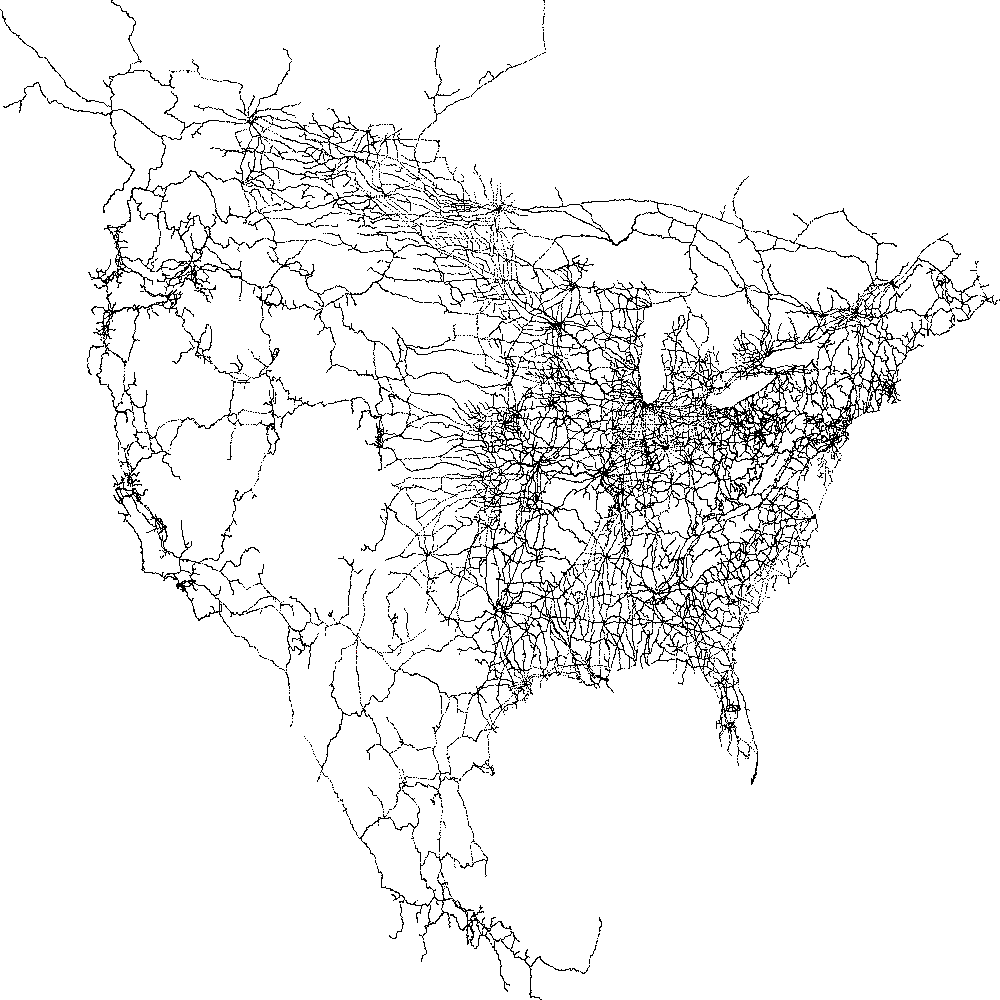
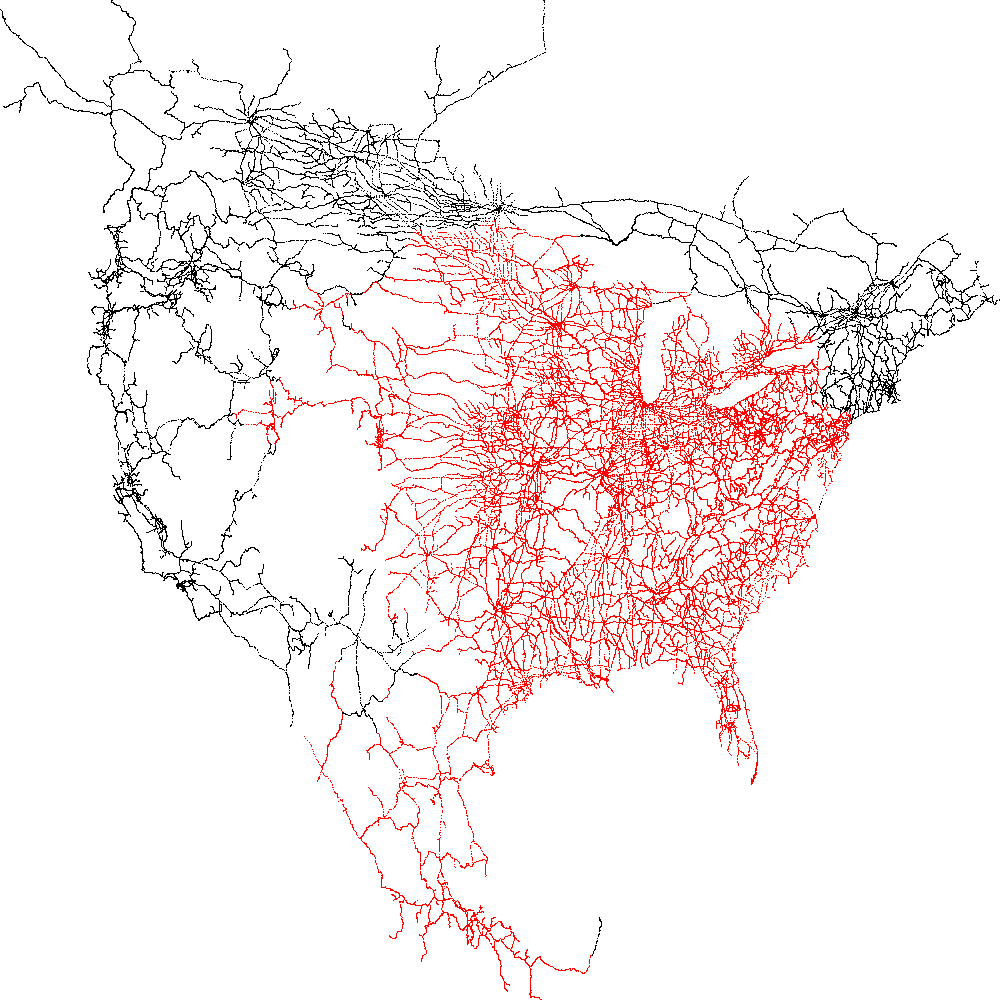
update visualization test cases

diff --git a/tests/test_visualization.cpp b/tests/test_visualization.cpp
@@ -67,7 +67,10 @@ TEST_CASE("Path Visualization", "[path]") {
     GraphReader gr(graph, "dataset/NA.cnode", "dataset/NA.cedge");
     gr.readNodes();
     std::vector<int> v;
-    v = graph->BFS(500, 114514);
+//    v = graph->Dijkstra(500, 114514);
+    for (size_t i = 1145; i < 114514; ++i) {
+        v.push_back(i);
+    }
     graph->drawPath(png, v);
     png->writeToFile("dataset/path.png");
 }
